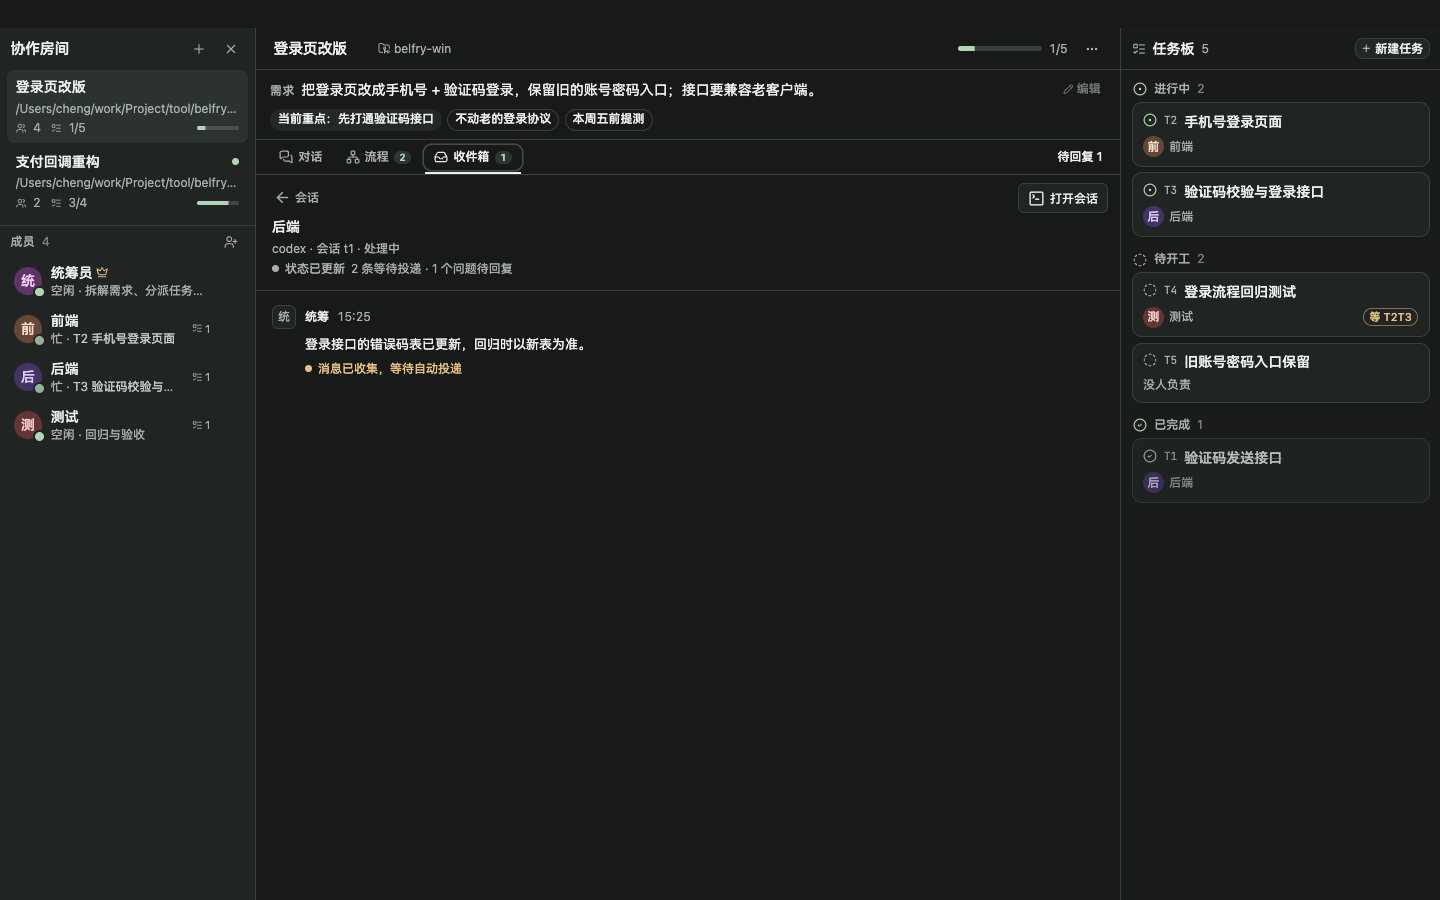
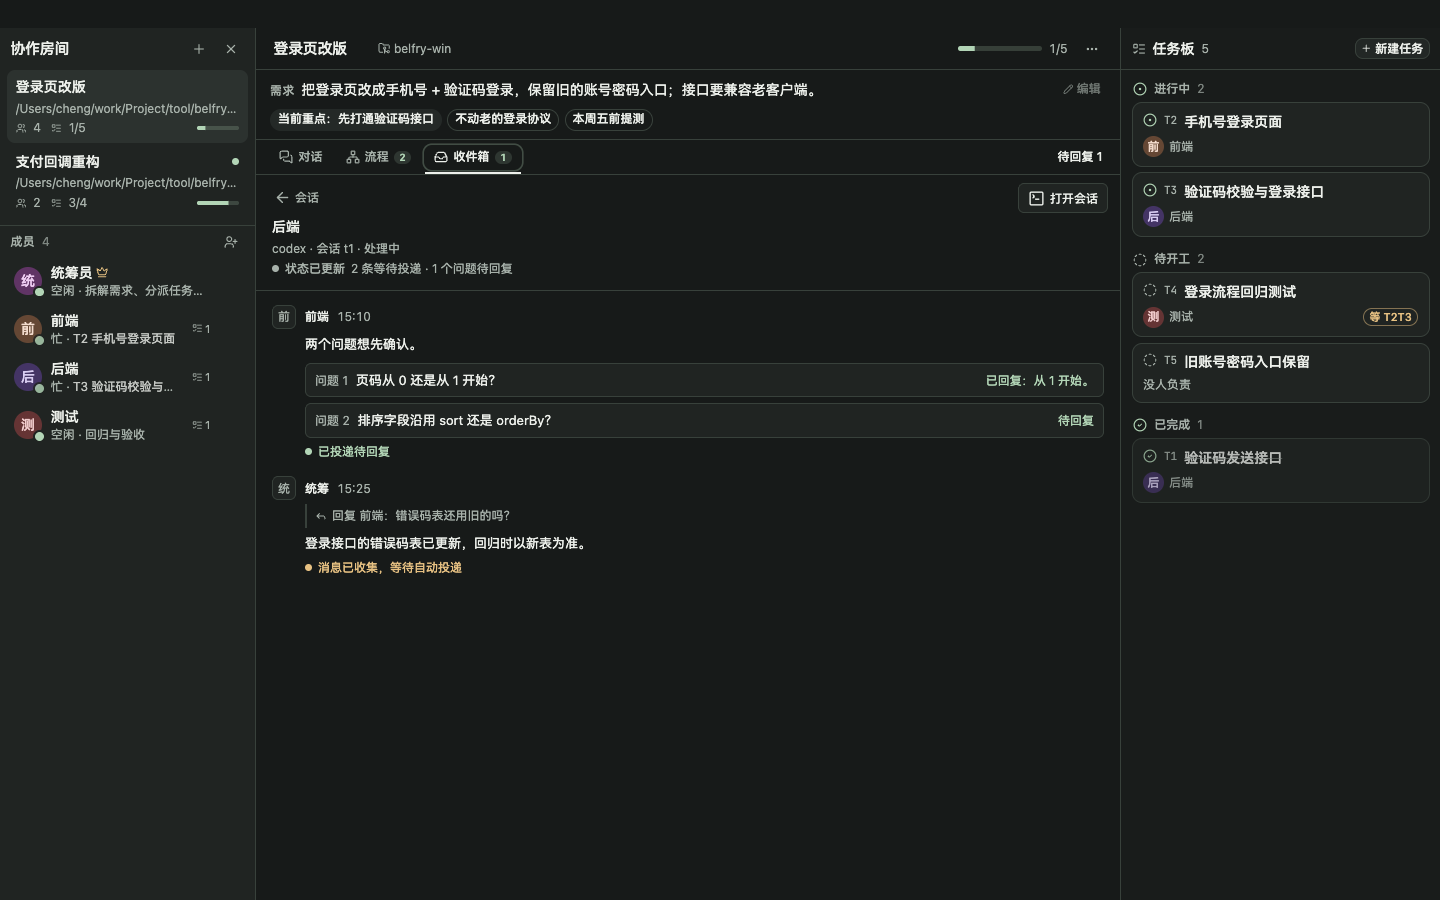
refactor(collab): keep the collaboration inbox only inside rooms
Remove the inbox view and Inbox/Tasks tabs from the top Collaboration drawer;
the drawer is back to the task list plus the delivery-halted notice. The
delivery runtime is unchanged. Drawer UI cases now assert the inbox is absent
and unread; reading, quoting, English and Esc coverage moved to the room inbox
cases, with screenshots retaken inside the room.

Changed region(s): [[0.1875, 0.3733, 0.4062, 0.6533], [0.6875, 0.4044, 0.75, 0.4978], [0.1875, 0.3422, 0.2188, 0.3733]]

diff --git a/src/collab/CollabPanel.tsx b/src/collab/CollabPanel.tsx
@@ -10,8 +10,6 @@ import type { CollabTasksView } from "./useCollabTasks";
 import { DeliveryActions, type DeliveryDecision } from "./DeliveryActions";
 import { t, useTranslation } from "../i18n";
 import "./collab.css";
-import { InboxView } from "../inbox/InboxView";
-import type { InboxView as InboxData } from "../inbox/useInbox";
 
 /** 节点里的图标要比常规图标小一档才压得进 10px 的节点位，比 ICON.xs(16) 还小。 */
 const NODE_ICON = 12;
@@ -22,13 +20,12 @@ interface CollabPanelProps {
   onOpenTerminal?: (tabId: string) => void;
   availableTabIds?: readonly string[];
   /** 后端启用协作收件箱时提供：面板顶部切到只读的会话/消息视图。 */
-  inbox?: InboxData;
   /** 收件箱支持但启用失败：自动投递已暂停，需要告诉用户。 */
   deliveryHalted?: boolean;
   deliveryError?: string | null;
 }
 
-export function CollabPanel({ collab, onClose, onOpenTerminal, availableTabIds, inbox, deliveryHalted, deliveryError }: CollabPanelProps) {
+export function CollabPanel({ collab, onClose, onOpenTerminal, availableTabIds, deliveryHalted, deliveryError }: CollabPanelProps) {
   useTranslation();
   // Other panel triggers switch on click. Closing on mousedown creates an empty
   // rail between press/release and resizes every terminal twice unnecessarily.
@@ -39,8 +36,6 @@ export function CollabPanel({ collab, onClose, onOpenTerminal, availableTabIds, 
     (task) => !waiting.includes(task) && !active.includes(task),
   );
   const [filter, setFilter] = useState<"all" | "waiting" | "active" | "settled">("all");
-  const [view, setView] = useState<"inbox" | "tasks">("inbox");
-  const showInbox = !!inbox && view === "inbox";
   const filters = [
     { id: "all", label: t("collab.CollabPanel.text_5c55a67935"), count: collab.tasks.length },
     { id: "waiting", label: t("collab.CollabPanel.text_a8b0bd9c65"), count: waiting.length },
@@ -73,13 +68,6 @@ export function CollabPanel({ collab, onClose, onOpenTerminal, availableTabIds, 
       {deliveryHalted ? (
         <div className="collab-panel__error" role="alert"><AlertTriangle aria-hidden="true" size={ICON.sm} /><div><span>{t("inbox.panel.halted")}</span>{deliveryError ? <small>{deliveryError}</small> : null}</div></div>
       ) : null}
-      {inbox ? (
-        <div className="collab-views" role="tablist" aria-label={t("inbox.panel.views")}>
-          <button type="button" role="tab" aria-selected={view === "inbox"} onClick={() => setView("inbox")}>{t("inbox.panel.title")}</button>
-          <button type="button" role="tab" aria-selected={view === "tasks"} onClick={() => setView("tasks")}>{t("inbox.panel.tasks")}</button>
-        </div>
-      ) : null}
-      {showInbox ? <InboxView inbox={inbox!} availableTabIds={availableTabIds} onOpenSession={onOpenTerminal} /> : <>
       <div className="collab-panel__context">
         <p>{t("collab.CollabPanel.text_63ac23a22d")}</p>
         <div className="collab-filters" role="group" aria-label={t("collab.CollabPanel.text_c310faf317")}>
@@ -139,7 +127,6 @@ export function CollabPanel({ collab, onClose, onOpenTerminal, availableTabIds, 
           <button className="collab-button collab-button--danger" disabled={collab.pending.size > 0} onClick={() => void collab.stopAll()} type="button">{t("collab.CollabPanel.text_784aaf3360")}</button>
         ) : null}
       </footer>
-      </>}
     </aside>
   );
 }

diff --git a/src/components/lazy/testing/rooms-qa.tsx b/src/components/lazy/testing/rooms-qa.tsx
@@ -227,9 +227,19 @@ Object.assign(window, {
           { id: "inbox-1", messageId: "msg-1", revision: 1, source: { kind: "room", roomId: room.id, name: room.name, messageId: "msg-1" },
             recipient: { id: "rcpt", sessionKey: "sk-t1", projectRoot: room.projectRoot, tabId: "t1", roomId: room.id, memberId: null, name: "后端", agent: "codex" },
             topicId: "topic-1", class: "discussion", by: { id: "lead", name: "统筹", tabId: null, memberId: null }, createdAt: now - 5 * min,
-            text: "登录接口的错误码表已更新，回归时以新表为准。", attachments: [], replyTo: null, questions: [], replies: [],
+            text: "登录接口的错误码表已更新，回归时以新表为准。", attachments: [], replyTo: "msg-other",
+            replyPreview: { messageId: "msg-other", by: { id: "fe", name: "前端", tabId: "t2", memberId: null }, createdAt: now - 30 * min, text: "错误码表还用旧的吗？", answers: [] },
+            questions: [], replies: [],
             deliveryPhase: "pending", deliveryStatus: status("queue_turn"), handlingStatus: status("unknown_handling"), waitingReason: null },
-        ] };
+          { id: "inbox-2", messageId: "msg-2", revision: 1, source: { kind: "room", roomId: room.id, name: room.name, messageId: "msg-2" },
+            recipient: { id: "rcpt", sessionKey: "sk-t1", projectRoot: room.projectRoot, tabId: "t1", roomId: room.id, memberId: null, name: "后端", agent: "codex" },
+            topicId: "topic-1", class: "discussion", by: { id: "fe", name: "前端", tabId: "t2", memberId: null }, createdAt: now - 20 * min,
+            text: "两个问题想先确认。", attachments: [], replyTo: null,
+            questions: [{ id: "q1", text: "页码从 0 还是从 1 开始？", state: "replied", replyMessageIds: ["msg-r1"], legacy: false },
+              { id: "q2", text: "排序字段沿用 sort 还是 orderBy？", state: "open", replyMessageIds: [], legacy: false }],
+            replies: [{ messageId: "msg-r1", by: { id: "be", name: "后端", tabId: "t1", memberId: null }, createdAt: now - 18 * min, text: "从 1 开始。", answers: ["q1"] }],
+            deliveryPhase: "submitted", deliveryStatus: status("submitted"), handlingStatus: status("processing"), waitingReason: null },
+        ].sort((a, b) => a.createdAt - b.createdAt) };
       }
       if (command === "plugin:event|listen") return ++callback;
       if (command.startsWith("plugin:")) return null;

diff --git a/src/App.tsx b/src/App.tsx
@@ -32,7 +32,6 @@ import { NamedWorkspaceControls } from "./workspace/named/NamedWorkspaceControls
 import { useSessionRoster } from "./collab/useSessionRoster";
 import { useTaskDelivery } from "./collab/useTaskDelivery";
 import { useInboxDelivery } from "./inbox/useInboxDelivery";
-import { useInbox } from "./inbox/useInbox";
 import { useRoomBoundTabs } from "./rooms/useRoomBoundTabs";
 import { useRoomInbox } from "./rooms/useRoomInbox";
 import { resolveAgentRename } from "./collab/naming";
@@ -151,8 +150,6 @@ export default function App() {
   // 协作收件箱：后端支持时成为唯一投递 owner；否则沿用旧的 `belfry send` 队列。决定之前两者都不跑。
   const inboxDelivery = useInboxDelivery({ tabs: workspace.tabs, targets: terminalTargets.targets, promptQueueEmpty: promptQueue.isEmptyFor });
   const resolveTaskDelivery = useTaskDelivery(promptQueue.submit, inboxDelivery.mode === "legacy");
-  const inboxRoots = useMemo(() => [...new Set(workspace.tabs.map((tab) => tab.project.rootPath))].sort(), [workspace.tabs]);
-  const inbox = useInbox(inboxRoots, inboxDelivery.mode === "inbox" && collabOpen);
   // 统筹、成员发给你的消息：房间关着时发系统通知；未读的房间也算进侧栏计数。
   const roomUnread = useRoomInbox(roomBound.summaries, roomsOpen);
   // 房间成员在等你选择、或者发给他的消息卡住了：侧栏「协作房间」按钮亮起，房间藏着也看得见。
@@ -421,7 +418,7 @@ export default function App() {
         tabs={workspace.tabs}
       />
 
-      <Presence open={collabOpen} drawer><CollabPanel collab={collab} inbox={inboxDelivery.mode === "inbox" ? inbox : undefined} deliveryHalted={inboxDelivery.mode === "halted"} deliveryError={inboxDelivery.error} onClose={() => setCollabOpen(false)}
+      <Presence open={collabOpen} drawer><CollabPanel collab={collab} deliveryHalted={inboxDelivery.mode === "halted"} deliveryError={inboxDelivery.error} onClose={() => setCollabOpen(false)}
         availableTabIds={workspace.tabs.map(tab => tab.id)} onOpenTerminal={tabId => { setCollabOpen(false); openRoomSession(tabId); }} /></Presence>
       <PluginDock visible={pluginDockOpen && !settingsOpen} onClose={() => setPluginDockOpen(false)} />
 

diff --git a/src/collab/collab.css b/src/collab/collab.css
@@ -474,8 +474,3 @@
 .collab-delivery-actions .collab-event__actions { flex-wrap: wrap; }
 .collab-delivery-confirm { padding: 10px; border: 1px solid var(--border); border-radius: var(--radius-sm); }
 /* 收件箱启用时：面板顶部在“收件箱 / 任务”之间切换。 */
-.collab-views { display: flex; flex-shrink: 0; gap: 18px; padding: 0 16px; border-bottom: 1px solid var(--border); }
-.collab-views button { position: relative; min-height: 36px; padding: 0; border: 0; color: var(--text-muted); background: none; font: inherit; font-size: var(--fs-sm); cursor: pointer; }
-.collab-views button[aria-selected="true"] { color: var(--text); }
-.collab-views button[aria-selected="true"]::after { content: ""; position: absolute; right: 0; bottom: -1px; left: 0; height: 2px; background: var(--accent); }
-.collab-views button:focus-visible { outline: 2px solid var(--accent); outline-offset: 2px; }

diff --git a/docs/design/collaboration-inbox/frontend-integration.md b/docs/design/collaboration-inbox/frontend-integration.md
@@ -10,7 +10,7 @@
 | `src/inbox/useInboxDelivery.ts` | 决定唯一投递 owner 并驱动运行时（见下）。 |
 | `src/inbox/runtime.ts` | 输入运行时：offer → prepare → begin → 一次写入 → 回执。 |
 | `src/inbox/useInbox.ts` | 只读数据：会话列表、消息分页，带请求代次。 |
-| `src/inbox/InboxView.tsx`、`status.ts` | 会话协作面板里的“收件箱”页：会话列表 → 消息详情。 |
+| `src/inbox/InboxView.tsx`、`status.ts` | 协作房间中栏“收件箱”页签（`src/rooms/view/RoomView.tsx`）：按房间读取，会话列表 → 消息详情。顶部“会话协作”面板不再显示收件箱。 |
 | `src/terminal/promptInput.ts` 等 | `sendText` 新增 `inboxGuard`、`expectedInputRevision`；`terminal_write` 透传 `inboxGuard`/`writeSequence`；target 暴露 `inputRevision()` 和 `canPasteMultiline()`。 |
 
 ## 投递 owner 切换
@@ -48,12 +48,12 @@
 
 - 整合后相关前端回归 20 文件、190 项通过；最终兼容判断修正增加 1 项并定向复跑 `useInboxDelivery.test.ts`，10 项通过。类型、生产构建及国际化检查通过。完整命令和范围见[整合验收](../../collaboration-inbox-verification.md)。
 - 生产浏览器（`src/components/lazy/testing/inbox.case.mjs`，未改写的生产构建 + 按契约模拟的原生 IPC）：
-  1. 1440 与 720×480：会话列表、混合原因、计数、详情各类状态、无投递类按钮、Esc 返回且焦点归位、搜索/无结果、720 无横向溢出。
+  1. 顶部“会话协作”面板不显示、也不读取收件箱；运行时照常激活。
   2. 运行时：Agent 工作中不 offer；prepare 后用户键入 → abort 且零写入；再次就绪后整批一次写入，guard 一致、序号 1、2，回执 `submitted`/3，新任务不随协商送出，没有重复写入，旧 `collab_pending_tasks` 未被调用。
   3. 原生侧先收到用户写入（前端未见）→ begin 被拒，零写入、零回执。
   4. 真实 xterm 未启用安全粘贴时不 begin；启用后自动生成 DSR 应答，不误判为用户输入。
-  5. 英文 720×480：列表、详情、Esc 返回、打开目标终端。
-- 五个场景全部通过；最终文案构建后只重跑两项阅读场景更新截图。截图位于 `production-screenshots/`，包含中文 1440、720×480 及英文 720×480 的列表和详情。
+- 房间收件箱（`src/components/lazy/testing/rooms-inbox.case.mjs`，房间夹具 + 模拟原生 IPC）：只按本房间读取、角标、逐问题答复与跨会话引用、无投递类按钮、打开会话、只读不触发投递；720×480 列表/详情/返回；英文与 Esc 只返回列表；无收件箱后端时不出现页签。
+- 截图位于 `production-screenshots/`：中文 1440 列表与详情、720×480 列表与详情，以及英文 720×480 详情。
 
 ## 未覆盖
 

diff --git a/docs/collaboration-inbox.md b/docs/collaboration-inbox.md
@@ -1,14 +1,14 @@
 # 协作收件箱
 
-在「协作房间」里，中栏的「对话 / 流程 / 收件箱」页签中选「收件箱」，查看本房间成员会话收到的任务、协商和回复；页签角标是本房间有待处理消息的会话数。点击顶部的「协作」打开「会话协作」面板，也能看到跨房间的全部收件。列表按 Agent 会话归组：同一会话收到多项任务、协商消息和回复时，集中在这一行；即使两位成员使用相同的 Agent 或模型，也各有自己的收件箱。
+在「协作房间」里，中栏的「对话 / 流程 / 收件箱」页签中选「收件箱」，查看本房间成员会话收到的任务、协商和回复；页签角标是本房间有待处理消息的会话数。列表按 Agent 会话归组：同一会话收到多项任务、协商消息和回复时，集中在这一行；即使两位成员使用相同的 Agent 或模型，也各有自己的收件箱。
 
-点进会话可以查看消息原文、引用和每个问题的答复状态。筛选「有待处理」可以找到仍有消息等待投递或问题等待回复的会话；搜索按会话名称、Agent 和最新消息摘要筛选列表。小窗口先显示列表，进入详情后可用返回按钮或 Esc 回到列表。目标终端仍在工作区时，可以从详情打开它。
+点进会话可以查看消息原文、引用和每个问题的答复状态。筛选「有待处理」可以找到本房间仍有消息等待投递或问题等待回复的会话；搜索按会话名称、Agent 和最新消息摘要筛选列表。小窗口先显示列表，进入详情后可用返回按钮或 Esc 回到列表。目标终端仍在工作区时，可以从详情打开它。
 
-![房间里的收件箱](design/collaboration-inbox/production-screenshots/1440-room-inbox-detail.png)
+![房间收件箱会话列表](design/collaboration-inbox/production-screenshots/1440-room-inbox-sessions.png)
 
-![会话列表](design/collaboration-inbox/production-screenshots/1440-inbox-sessions.png)
+![房间收件箱消息详情](design/collaboration-inbox/production-screenshots/1440-room-inbox-detail.png)
 
-![720×480 消息详情](design/collaboration-inbox/production-screenshots/720x480-inbox-detail.png)
+![720×480 消息详情](design/collaboration-inbox/production-screenshots/720x480-room-inbox-detail.png)
 
 ## 状态怎么读
 

diff --git a/docs/collaboration-inbox-verification.md b/docs/collaboration-inbox-verification.md
@@ -39,7 +39,7 @@
 
 收件箱测试运行未改写的 `dist/` 生产构建、真实 React 页面和 xterm；**原生 IPC 被测试替身替换**。它验证页面点击、输入运行时调用顺序、粘贴编码和前端竞争处理，不等同于浏览器到实际 Tauri 后端的完整贯通测试。角色模型测试同样替换原生 IPC，使用真实房间设置组件。
 
-收件箱五个场景覆盖中文 1440×900、720×480 的只读列表/详情/搜索/返回，用户抢先输入，原生代次先变化，真实 xterm 的安全粘贴与 DSR，以及英文窄窗的阅读和打开会话。截图在 [production-screenshots](design/collaboration-inbox/production-screenshots/)，共六张；截图等待页面入场动画结束后采集。
+收件箱运行时四个场景覆盖顶部面板不显示收件箱、用户抢先输入、原生代次先变化，以及真实 xterm 的安全粘贴与 DSR。只读界面在协作房间里，`rooms-inbox.case.mjs` 四个场景覆盖中文 1440×900、720×480 与英文窄窗的列表/详情/返回、按房间读取和打开会话。截图在 [production-screenshots](design/collaboration-inbox/production-screenshots/)，共五张；截图等待页面入场动画结束后采集。
 
 ## 复跑
 
@@ -53,6 +53,7 @@ node scripts/sync-backend-i18n.mjs --check
 node scripts/export-backend-i18n.mjs --check
 node --test scripts/backend-i18n.test.mjs
 node --experimental-websocket --test src/components/lazy/testing/inbox.case.mjs
+node --experimental-websocket --test src/components/lazy/testing/rooms-inbox.case.mjs
 node --experimental-websocket --test src/components/lazy/testing/room-role-model.case.mjs
 ```
 
